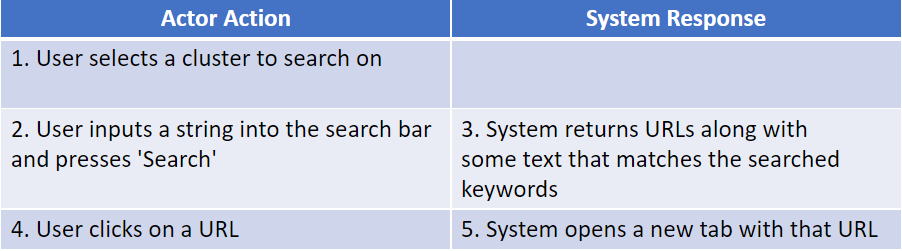
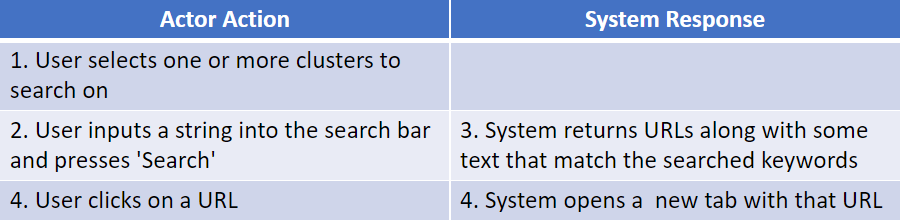
Commit SRS 5.1 Performance Requirements - Sarwar

diff --git a/SRS/SRS.html b/SRS/SRS.html
@@ -422,8 +422,8 @@
           <li> <b> Goal </b> : To get URLs to webpages that contain the search keywords </li>
         </p>
 
-        <p> <b> Overview </b>: After one or more search clusters have been made, a user may perform a search over the data stored in a cluster. After the user enters a string into the 
-        search bar, the system will use its text searching capabilities to go through the data that belongs to this cluster and return URLs to webpages that contain words from the string
+        <p> <b> Overview </b>: After one or more search clusters have been made, a user may perform a search on the clusters. After the user enters a string into the 
+        search bar, the system will use its text searching capabilities to go through the data that belongs to the selected clusters and return URLs to webpages that contain words from the string
         provided by the user.</p>
 
         <p> <b> Cross Reference </b> : 4.3 </p>
@@ -525,43 +525,11 @@
 
         <h2 style="color:#3f5cab;">5. Other Nonfunctional Requirements</h2>
         <h4 id="sec5.1"> 5.1 Performance Requirements</h4>
-        <p>Any Interface between a user and software shall have reasonable response time based on Intranet connection
-        </p>
-        <b>5.1.1 Prominent search feature</b><br>
-        <b>ID: FRN1</b><br>
-        TITLE: Prominent search feature<br>
-        OVERVIEW: The search feature should be prominent and easy to find for the user.<br>
-        PURPOSE: In order to find the search feature easily for a user.<br>
-        DEP: none<br><br>
-
-
-
-        <b>5.1.2 Usage of the Google API</b><br>
-        <b>ID: FRN2</b><br>
-        TITLE: Usage of the API<br>
-        OVERVIEW: Using Google Text to speech and Speech to text API's <br>
-        PURPOSE: To convert the user voice into text and use the text for search, and also using Speech to text for
-        listening the news article <br>
-        DEP: none<br><br>
-
-        <b>5.1.3 Response time</b><br>
-        <b>ID: FRN3</b><br>
-        TAG: ResponseTime<br>
-        GIST: The fastness of the search<br>
-        SCALE: The response time of a search<br>
-        METER: Measurements obtained from 1000 searches during testing.<br>
-        MUST: No more than 2 seconds 100% of the time.<br>
-        WISH: No more than 1 second 100% of the time.<br><br>
-
-        <b>5.1.4 System dependability</b><br>
-        <b>ID: FRN4</b><br>
-        TAG: SystemDependability<br>
-        GIST: The fault tolerance of the system.<br>
-        SCALE: If the system loses the connection to the Internet or missing any sensor, the user should be
-        informed.<br>
-        METER: Measurements obtained from 1000 hours of usage during testing.<br>
-        MUST: 100% of the time.<br><br>
-        </p>
+        <p><b>Text search: </b>When searching through a cluster,the system should not take more than a few seconds to start returning results. Users might often have many
+          things to search for, so each search operation needs to be very quick or else the user's experience may not be satisfactory.<br>
+          <b>Data: </b> Large volumes of data can be scraped off of websites so the system needs to be able to handle this.<br>
+            <b>Mobile App: </b> Needs to be lightweight and responsive.<br>
+            <b>Database: </b>Needs to be suited for handling the raw data that will be scraped. If this is slow it might bottleneck the whole system.</p> 
 
         <h4 id="sec5.2"> 5.2 Safety Requirements</h4>
         <p>To ensure no data is lost in case the user decides to change devices or if the user's device is extensively
